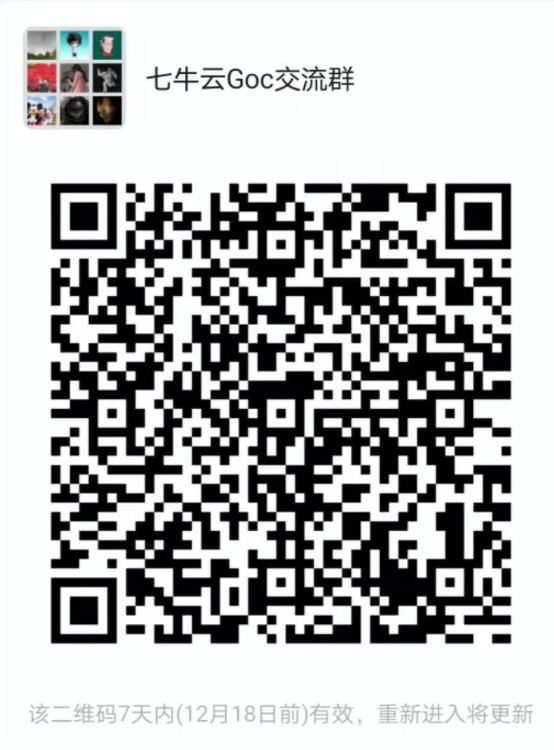
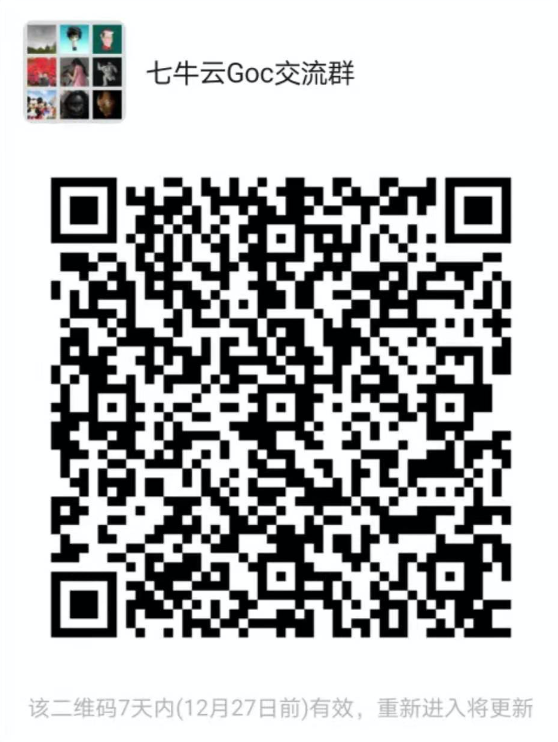
doc: update wechat image

diff --git a/pkg/cover/client_test.go b/pkg/cover/client_test.go
@@ -127,6 +127,18 @@ func TestClientAction(t *testing.T) {
 			param:    ProfileParam{CoverFilePatterns: []string{"b.go$"}},
 			expected: "b/b.go",
 		},
+		{
+			name:     "valid test with skipfile flag provided",
+			service:  ServiceUnderTest{Name: "serviceOK", Address: profileSuccessMockSvr.URL},
+			param:    ProfileParam{SkipFilePatterns: []string{"b.go$"}},
+			expected: "main.go",
+		},
+		{
+			name:     "valid test with both skipfile and coverfile flags provided",
+			service:  ServiceUnderTest{Name: "serviceOK", Address: profileSuccessMockSvr.URL},
+			param:    ProfileParam{SkipFilePatterns: []string{"main.go"}, CoverFilePatterns: []string{".go$"}},
+			expected: "b.go",
+		},
 	}
 	for _, tc := range tcs {
 		t.Run(tc.name, func(t *testing.T) {
